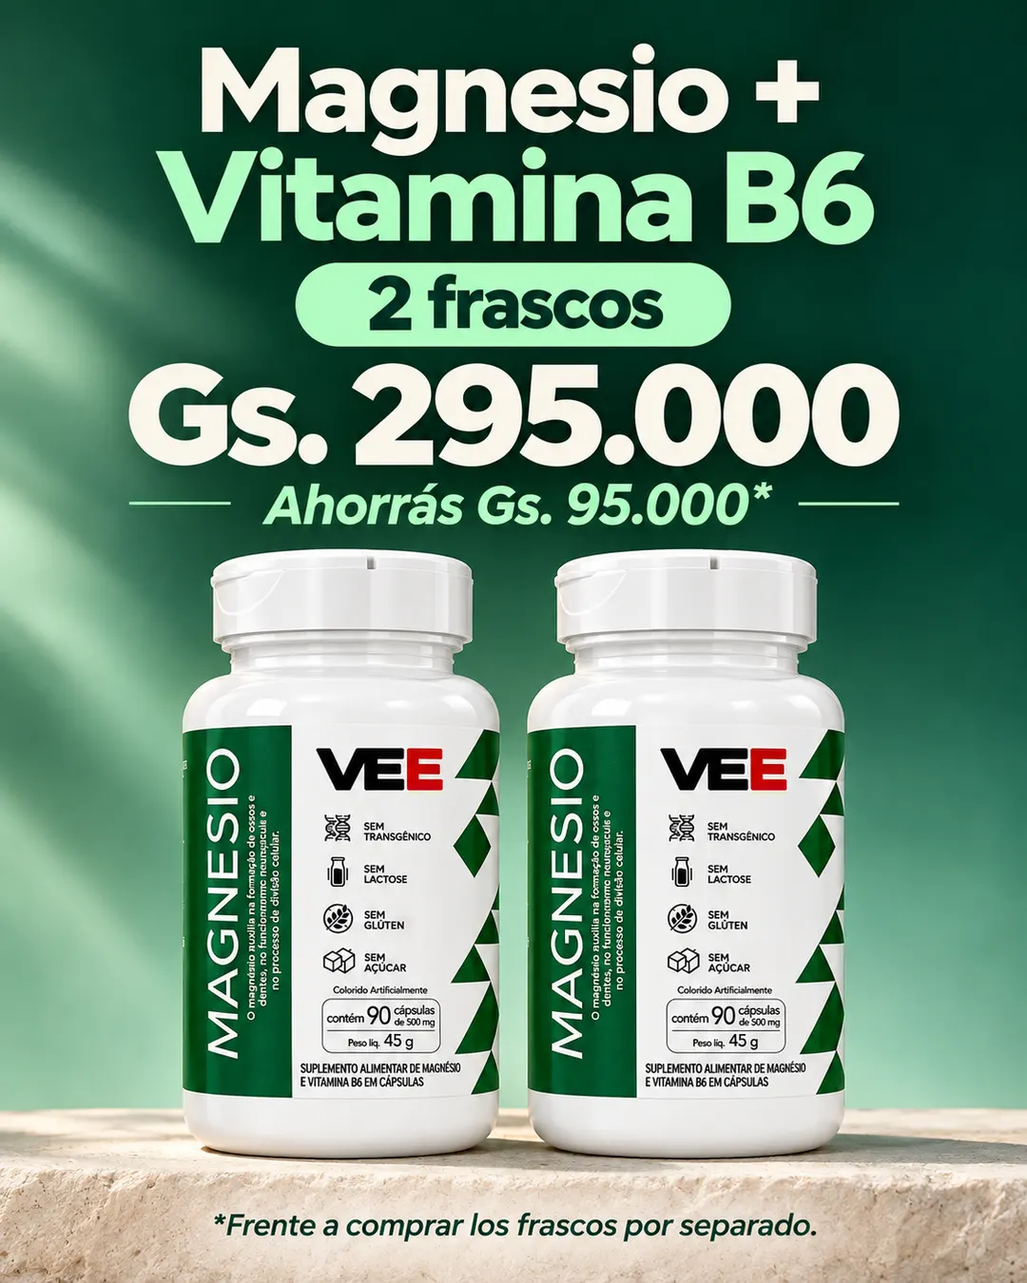
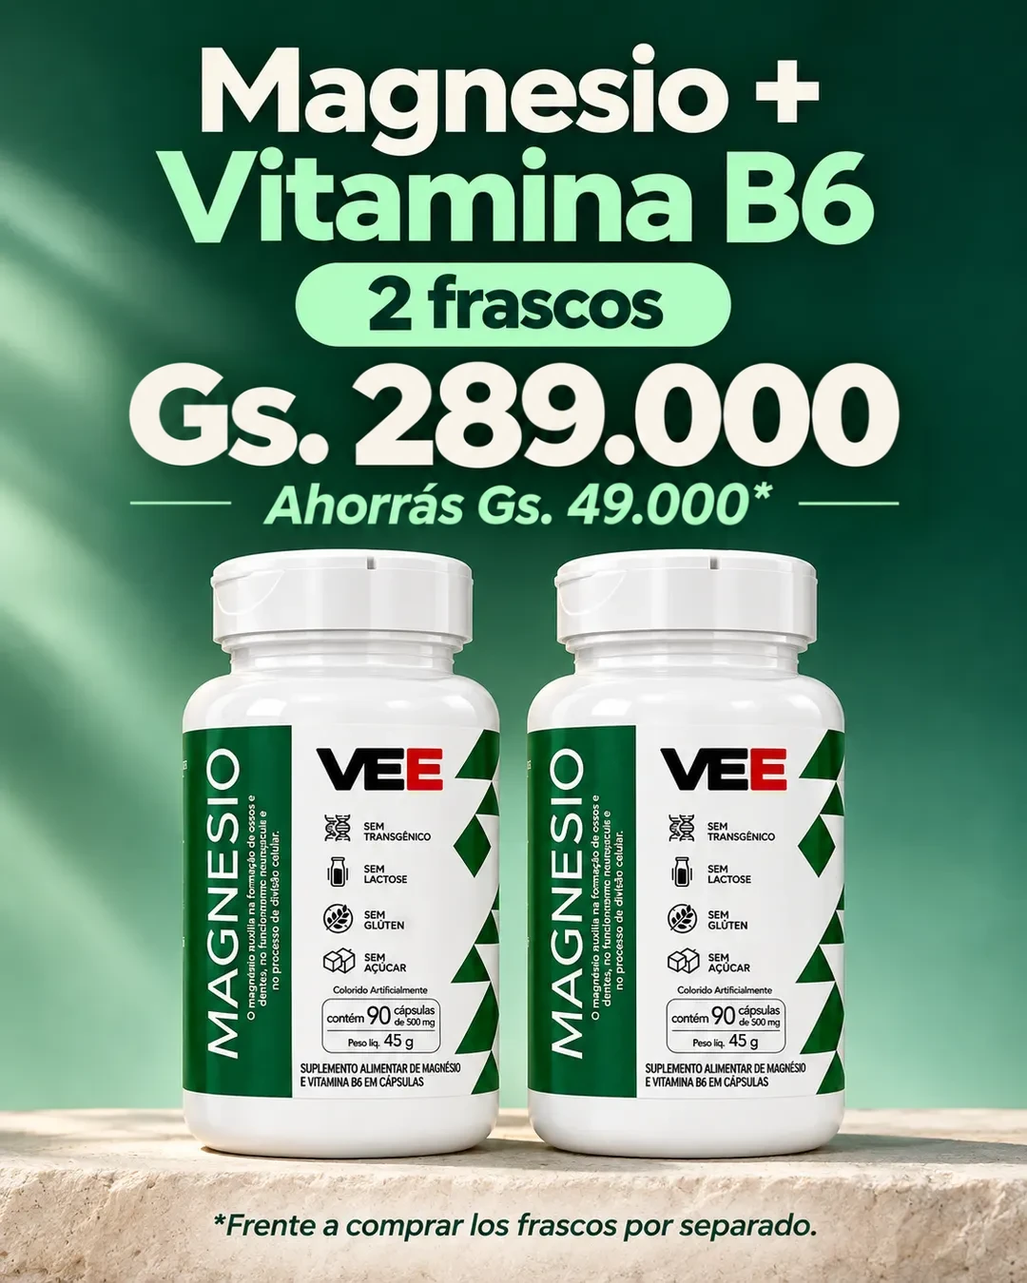
Actualiza precios y ficha de Magnesio VEE

diff --git a/index.html b/index.html
@@ -65,7 +65,11 @@ section{padding:40px 0}
 .gallery__badges{position:absolute;top:12px;left:12px;display:flex;flex-direction:column;gap:6px}
 .badge{display:inline-block;font-size:11px;font-weight:700;padding:4px 10px;border-radius:999px;color:#fff;background:var(--brand)}
 .badge.dark{background:#2e2a39}
-.gallery__thumbs{display:grid;grid-template-columns:repeat(6,1fr);gap:8px;margin-top:10px}
+.gallery__nav{display:flex;align-items:center;justify-content:center;gap:clamp(6px,2vw,12px);margin-top:10px}
+.gallery__arrow{display:grid;place-items:center;flex:none;width:40px;height:40px;border:1px solid var(--brand);border-radius:50%;background:#eef7f1;color:var(--brand);font:inherit;font-size:25px;line-height:1;cursor:pointer}
+.gallery__arrow:hover{background:var(--brand);color:#fff}
+.gallery__thumbs{display:flex;gap:5px;min-width:0}
+.gallery__thumbs button{width:54px;min-width:0}
 .gallery__thumbs button{border:2px solid transparent;border-radius:8px;overflow:hidden;padding:0;background:none;cursor:pointer}
 .gallery__thumbs button[aria-current="true"]{border-color:var(--brand)}
 .gallery__thumbs img,.gallery__thumbs .ph{aspect-ratio:var(--gallery-ratio);object-fit:cover;font-size:0}
@@ -76,15 +80,6 @@ section{padding:40px 0}
 .title{font-size:clamp(24px,5.5vw,32px);font-weight:700;line-height:1.2}
 .proof{display:flex;align-items:center;gap:8px;margin:8px 0 14px;font-size:14px;color:var(--muted)}
 .stars{color:var(--star);letter-spacing:1px}
-.chips{display:grid;gap:8px;margin-bottom:16px}
-.chip{display:flex;gap:12px;align-items:center;background:#eef7f1;border-radius:10px;padding:10px 12px}
-.chip__ico{font-size:22px;width:32px;text-align:center}
-.chip b{display:block;font-size:14px}
-.chip span{font-size:13px;color:var(--muted)}
-.price{display:flex;align-items:center;flex-wrap:wrap;gap:10px;margin-bottom:10px}
-.price__now{font-size:28px;font-weight:800;color:var(--brand)}
-.price__old{font-size:17px;color:#9a97a3;text-decoration:line-through}
-.price__save{background:#2e2a39;color:#fff;font-size:12px;font-weight:700;padding:4px 10px;border-radius:999px}
 .countdown{display:flex;align-items:center;justify-content:space-between;gap:10px;background:#2e2a39;color:#fff;border-radius:10px;padding:10px 14px;margin-bottom:16px;font-size:13px;font-weight:600}
 .countdown__time{font-variant-numeric:tabular-nums;font-size:20px;font-weight:800;letter-spacing:1px}
 
@@ -129,7 +124,25 @@ section{padding:40px 0}
 .hp{position:absolute;left:-9999px;width:1px;height:1px;overflow:hidden}
 
 /* ---------- Checkout (ventana) ---------- */
-.buy{border:1px solid var(--line);border-radius:14px;padding:16px;background:#fff}
+.buy{border:1px solid var(--line);border-radius:14px;padding:clamp(10px,2.5vw,16px);background:#fff}
+.buy__label{color:var(--brand);font-size:13px;font-weight:800;letter-spacing:.06em;margin:0 0 14px}
+.buy .offers{grid-template-columns:repeat(3,minmax(0,1fr));gap:7px}
+.buy .offer{flex-direction:column;justify-content:center;gap:2px;text-align:center;min-height:94px;padding:12px 3px}
+.buy .offer input{position:absolute;width:1px;height:1px;opacity:0}
+.buy .offer:focus-within{outline:2px solid var(--brand);outline-offset:2px}
+.buy .offer__title{font-size:clamp(11px,2.8vw,13px)}
+.buy .offer__prices b{font-size:clamp(12px,3.4vw,15px);white-space:nowrap;text-align:center;color:var(--brand)}
+.buy .offer__sub{font-size:clamp(9px,2.5vw,11px)}
+.buy .offer__tag{top:-9px;right:auto;left:50%;transform:translateX(-50%);padding:2px 5px;font-size:clamp(7px,1.9vw,9px);white-space:nowrap}
+.buy .offer[data-checked="true"]::after{content:"✓";position:absolute;top:4px;right:4px;display:grid;place-items:center;border-radius:50%;width:15px;height:15px;background:var(--brand);color:white;font-size:10px}
+.buy .offer__exit{font-size:9px}
+.buy .cta{display:flex;align-items:center;justify-content:space-between;gap:12px;text-align:left;padding:12px 16px;animation:none}
+.buy .cta__main{display:block;font-size:clamp(17px,4.5vw,20px)}
+.buy .cta__sub{display:block;font-size:13px;font-weight:600;text-transform:none;letter-spacing:normal}
+.buy .cta__arrow{display:grid;place-items:center;width:36px;height:36px;flex:none;border-radius:50%;background:#126034;font-size:20px}
+.buy__wa{display:flex;align-items:center;justify-content:center;gap:8px;border:1px solid var(--brand);border-radius:999px;margin-top:10px;padding:11px 12px;color:var(--brand);font-weight:700;text-decoration:none}
+.buy__wa:hover{background:#eef7f1}
+.buy__wa svg{width:19px;height:19px}
 .buy .cta{margin-top:14px}
 .checkout{border:0;padding:0;margin:auto;width:min(520px,100%);max-height:100dvh;border-radius:16px;background:#fff;color:var(--text);box-shadow:0 20px 60px rgba(0,0,0,.25)}
 .checkout::backdrop{background:rgba(20,16,14,.6)}
@@ -215,19 +228,10 @@ section{padding:40px 0}
 .banner img{width:100%;height:auto}
 .banner__note{padding:8px 16px;text-align:center;color:var(--ok);font-weight:700}
 
-/* ---------- Dolores ---------- */
-.pain__kicker{display:block;text-align:center;font-size:12px;font-weight:800;letter-spacing:1.5px;color:var(--brand);margin-bottom:6px}
-.pain h2{font-weight:900;font-size:clamp(20px,5vw,28px)}
-.pain__list{display:grid;gap:12px;margin-top:22px;max-width:640px;margin-inline:auto}
-@media (min-width:768px){.pain__list{grid-template-columns:repeat(3,1fr);max-width:none}}
-.pain__item{display:flex;gap:12px;align-items:center;background:#eef7f1;border-left:4px solid var(--brand);border-radius:10px;padding:16px}
-.pain__item i{font-style:normal;font-size:26px}
-.pain__item p{font-weight:600;font-size:14px}
-
 /* ---------- Pestañas ---------- */
-.tabs__bar{display:flex;gap:8px;overflow-x:auto;margin:20px 0 18px;padding-bottom:4px;justify-content:flex-start}
-@media (min-width:768px){.tabs__bar{justify-content:center}}
-.tabs__bar button{flex:none;font:inherit;font-size:13px;font-weight:600;border:1px solid var(--brand-soft);background:#fff;color:var(--text);padding:9px 14px;border-radius:999px;cursor:pointer}
+.product-info{padding-top:24px}
+.tabs__bar{display:flex;gap:clamp(4px,1.5vw,8px);margin:20px 0 18px;justify-content:center}
+.tabs__bar button{flex:0 1 auto;min-width:0;font:inherit;font-size:clamp(11px,3.15vw,13px);line-height:1.2;font-weight:600;border:1px solid var(--brand-soft);background:#fff;color:var(--text);padding:9px clamp(6px,2vw,14px);min-height:40px;border-radius:999px;cursor:pointer}
 .tabs__bar button[aria-selected="true"]{background:var(--brand);border-color:var(--brand);color:#fff}
 .tabs__panel{max-width:720px;margin:0 auto;text-align:center}
 .tabs__panel h3{font-size:18px;margin-bottom:14px}
@@ -326,7 +330,7 @@ if(!f._fbq)f._fbq=n;n.push=n;n.loaded=!0;n.version='2.0';n.queue=[];t=b.createEl
 t.src=v;s=b.getElementsByTagName(e)[0];s.parentNode.insertBefore(t,s)}(window,document,'script','https://connect.facebook.net/en_US/fbevents.js');
 fbq('init', '2141006803281667');
 fbq('track', 'PageView');
-fbq('track', 'ViewContent', { content_name: 'Magnesio VEE', content_type: 'product', value: 195000, currency: 'PYG' });
+fbq('track', 'ViewContent', { content_name: 'Magnesio VEE', content_type: 'product', value: 169000, currency: 'PYG' });
 </script>
 <noscript><img height="1" width="1" style="display:none" alt="" src="https://www.facebook.com/tr?id=2141006803281667&ev=PageView&noscript=1"></noscript>
 </head>
@@ -342,29 +346,30 @@ fbq('track', 'ViewContent', { content_name: 'Magnesio VEE', content_type: 'produ
       <div class="gallery__main" id="galleryMain">
         <div class="gallery__badges" id="badges"></div>
       </div>
-      <div class="gallery__thumbs" id="thumbs"></div>
+      <div class="gallery__nav" role="group" aria-label="Fotos del producto">
+        <button class="gallery__arrow" id="galleryPrev" type="button" aria-label="Foto anterior">‹</button>
+        <div class="gallery__thumbs" id="thumbs"></div>
+        <button class="gallery__arrow" id="galleryNext" type="button" aria-label="Foto siguiente">›</button>
+      </div>
     </div>
 
     <div>
       <div class="viewers" id="viewers"><span class="dot"></span><span><b id="viewersN">12</b> personas viendo este producto</span></div>
       <h1 class="title" id="pTitle"></h1>
       <div class="proof"><span class="stars" id="pStars">★★★★★</span><span id="pProof"></span></div>
-      <div class="chips" id="chips"></div>
-
-      <div class="price">
-        <span class="price__now" id="priceNow"></span>
-        <span class="price__old" id="priceOld"></span>
-        <span class="price__save" id="priceSave"></span>
-      </div>
-
       <div class="countdown" id="countdown">
         <span>⏳ LA OFERTA TERMINA EN</span>
         <span class="countdown__time" id="cdTime">--:--</span>
       </div>
 
       <div class="buy" id="buyBox">
-        <div class="offers" id="offers" role="radiogroup" aria-label="Elegí tu oferta"></div>
-        <button class="cta" id="buyBtn" type="button">Comprar ahora – pago al recibir</button>
+        <h2 class="buy__label" id="comboHeading">ELEGÍ TU COMBO</h2>
+        <div class="offers" id="offers" role="radiogroup" aria-labelledby="comboHeading"></div>
+        <button class="cta" id="buyBtn" type="button">
+          <span><span class="cta__main">Comprar ahora</span><span class="cta__sub" id="buyTotal"></span></span>
+          <span class="cta__arrow" aria-hidden="true">→</span>
+        </button>
+        <a class="buy__wa" id="buyWhatsApp" href="https://wa.me/595972738779" target="_blank" rel="noopener"><svg viewBox="0 0 32 32" aria-hidden="true"><path fill="currentColor" d="M16 3C8.8 3 3 8.7 3 15.8c0 2.5.7 4.9 2 7L3 29l6.4-2a13.1 13.1 0 0 0 6.6 1.8c7.2 0 13-5.7 13-12.8S23.2 3 16 3zm0 23.4c-2.1 0-4.1-.6-5.9-1.6l-.4-.3-3.8 1.2 1.2-3.7-.3-.4a10.4 10.4 0 0 1-1.7-5.8C5.1 10 10 5.3 16 5.3S26.9 10 26.9 15.8 22 26.4 16 26.4zm6-7.9c-.3-.2-1.9-.9-2.2-1-.3-.1-.5-.2-.7.2l-1 1.2c-.2.2-.4.2-.7.1-.3-.2-1.4-.5-2.6-1.6-1-.9-1.6-1.9-1.8-2.2-.2-.3 0-.5.1-.7l.5-.6.3-.5c.1-.2 0-.4 0-.6l-1-2.4c-.3-.6-.5-.5-.7-.5h-.6c-.2 0-.6.1-.9.4-.3.3-1.2 1.1-1.2 2.7s1.2 3.2 1.4 3.4c.2.2 2.4 3.6 5.8 5 .8.4 1.4.6 1.9.7.8.3 1.6.2 2.2.1.7-.1 1.9-.8 2.2-1.5.3-.7.3-1.4.2-1.5-.1-.2-.3-.3-.6-.4z"/></svg><span>Pedir por WhatsApp</span></a>
         <div class="trust"><span>🚚 Envío gratis a todo el país</span><span>💵 Pagás al recibir</span><span>🔒 Compra segura</span></div>
       </div>
 
@@ -462,21 +467,12 @@ fbq('track', 'ViewContent', { content_name: 'Magnesio VEE', content_type: 'produ
   <button class="ghost" type="button" id="exitNo">No, gracias</button>
 </dialog>
 
-<div class="divider"></div>
-<!-- 3. Banner de imágenes #1 -->
-<div class="banner">
-  <button type="button" data-banner-order>
-    <img src="img/mvee-dos-frascos-1080.webp" srcset="img/mvee-dos-frascos-560.webp 560w, img/mvee-dos-frascos-1080.webp 1080w" sizes="(min-width: 560px) 560px, 100vw" width="1080" height="1350" alt="Magnesio + Vitamina B6 VEE: 2 frascos por Gs. 295.000, ahorrás Gs. 95.000 frente a comprarlos por separado. Abrir pedido." loading="lazy" decoding="async">
-  </button>
-</div>
-<div class="divider"></div>
-
-<!-- 4. Señales de alerta (dolores) -->
-<section class="pain">
+<!-- Información del producto -->
+<section class="product-info" aria-labelledby="tabsTitle">
   <div class="wrap">
-    <span class="pain__kicker" id="painKicker"></span>
-    <h2 id="painTitle"></h2>
-    <div class="pain__list" id="painList"></div>
+    <h2 id="tabsTitle"></h2>
+    <div class="tabs__bar" id="tabsBar" role="tablist" aria-labelledby="tabsTitle"></div>
+    <div class="tabs__panel" id="tabsPanel" role="tabpanel"></div>
   </div>
 </section>
 
@@ -508,15 +504,6 @@ fbq('track', 'ViewContent', { content_name: 'Magnesio VEE', content_type: 'produ
   </button>
 </div>
 
-<!-- 6. Pestañas de contenido -->
-<section>
-  <div class="wrap">
-    <h2 id="tabsTitle"></h2>
-    <div class="tabs__bar" id="tabsBar" role="tablist"></div>
-    <div class="tabs__panel" id="tabsPanel" role="tabpanel"></div>
-  </div>
-</section>
-
 <!-- 7. Tabla comparativa -->
 <section class="on-brand">
   <div class="wrap">
@@ -544,7 +531,7 @@ fbq('track', 'ViewContent', { content_name: 'Magnesio VEE', content_type: 'produ
 <div class="banner">
   <p class="banner__note" id="bannerPriceNote" hidden>La imagen muestra los precios de lista. Tu descuento se aplica en el pedido.</p>
   <button type="button" id="comboBanner" data-banner-order>
-    <img src="img/mvee-tres-frascos-1080.webp" srcset="img/mvee-tres-frascos-560.webp 560w, img/mvee-tres-frascos-1080.webp 1080w" sizes="(min-width: 560px) 560px, 100vw" width="1080" height="1350" alt="Magnesio + Vitamina B6 VEE: 3 frascos por Gs. 395.000, ahorrás Gs. 190.000 frente a comprarlos por separado. Abrir pedido." loading="lazy" decoding="async">
+    <img src="img/mvee-tres-frascos-1080.webp" srcset="img/mvee-tres-frascos-560.webp 560w, img/mvee-tres-frascos-1080.webp 1080w" sizes="(min-width: 560px) 560px, 100vw" width="1080" height="1350" alt="Magnesio + Vitamina B6 VEE: 3 frascos por Gs. 399.000, ahorrás Gs. 108.000 frente a comprarlos por separado. Abrir pedido." loading="lazy" decoding="async">
   </button>
 </div>
 <div class="divider on-brand"></div>
@@ -586,22 +573,19 @@ const CONFIG = {
   currency: { prefix: "Gs. ", locale: "es-PY" },
 
   product: {
-    name: "Magnesio + Vitamina B6 VEE – Bisglicinato de magnesio, 90 cápsulas",
+    name: "Magnesio + Vitamina B6 VEE – Bisglicinato de magnesio",
     proof: "Suplemento alimentario en cápsulas · 90 cápsulas · 30 días",
     badges: [],   // las fotos ya traen texto
-    images: ["img/mvee-un-frasco-1080.webp", "img/producto-frente.webp", "img/mvee-composicion-1080.webp", "img/producto-tabla.webp"],
-    chips: [
-      { icon: "⚡", title: "350 mg de magnesio por porción", text: "Con 1,7 mg de vitamina B6 en la misma toma" },
-      { icon: "🌿", title: "Bisglicinato de magnesio", text: "Es la fuente de magnesio que declara la etiqueta" },
-      { icon: "💊", title: "90 cápsulas", text: "3 al día: un frasco dura 30 días" }
-    ]
+    coverAlt: "Magnesio + Vitamina B6 VEE. Por porción de 3 cápsulas: 350 mg de magnesio y 1,7 mg de vitamina B6. 90 cápsulas para 30 días. 1 frasco por Gs. 169.000.",
+    coverThumbnail: "img/mvee-un-frasco-560.webp",
+    images: ["img/mvee-un-frasco-1080.webp", "img/producto-frente.webp", "img/mvee-composicion-1080.webp", "img/producto-tabla.webp"]
   },
 
   /* Precios del catálogo. compare = el mismo frasco comprado suelto (ahorro real del combo). */
   offers: [
-    { id: "1u", title: "1 frasco · 90 cápsulas",   sub: "Rinde 30 días", img: "img/combo-1.webp", qty: 1, price: 195000, default: true },
-    { id: "2u", title: "2 frascos · 180 cápsulas", sub: "Rinde 60 días", img: "img/combo-2.webp", qty: 2, price: 295000, compare: 390000, tag: "⭐ EL MÁS ELEGIDO" },
-    { id: "3u", title: "3 frascos · 270 cápsulas", sub: "Rinde 90 días", img: "img/combo-3.webp", qty: 3, price: 395000, compare: 585000, tag: "🔥 MEJOR PRECIO" }
+    { id: "1u", title: "1 frasco · 90 cápsulas",   sub: "Rinde 30 días", img: "img/combo-1.webp", qty: 1, price: 169000, default: true },
+    { id: "2u", title: "2 frascos · 180 cápsulas", sub: "Rinde 60 días", img: "img/combo-2.webp", qty: 2, price: 289000, compare: 338000, tag: "MÁS ELEGIDO" },
+    { id: "3u", title: "3 frascos · 270 cápsulas", sub: "Rinde 90 días", img: "img/combo-3.webp", qty: 3, price: 399000, compare: 507000, tag: "MÁXIMO AHORRO" }
   ],
 
   countdownMinutes: 0,   // sin contador: no hay una oferta que venza
@@ -637,28 +621,18 @@ const CONFIG = {
   tickerTop: ["🚚 ENVÍO GRATIS A TODO EL PAÍS","💵 PAGÁS AL RECIBIR","📦 COMBOS DESDE 2 FRASCOS","💬 ATENCIÓN POR WHATSAPP"],
   tickerBottom: ["⚡ 350 MG DE MAGNESIO POR PORCIÓN","💊 VITAMINA B6","🌿 BISGLICINATO DE MAGNESIO","🚫 SIN AZÚCAR","🌾 SIN GLUTEN","🥛 SIN LACTOSA","🧬 SIN TRANSGÉNICOS"],
 
-  pain: {
-    kicker: "🌿 MAGNESIO PARA TU DÍA A DÍA",
-    title: "¿Querés sumar magnesio a tu rutina?",
-    items: [
-      { icon: "🏃", text: "Para acompañar tu día activo: trabajo, casa y movimiento" },
-      { icon: "🥗", text: "Como complemento de una alimentación variada" },
-      { icon: "⏱", text: "Simple: 3 cápsulas al día y listo" }
-    ]
-  },
-
   tabs: {
     title: "🌿 ¿Qué trae el Magnesio + B6 VEE?",
     items: [
-      { label: "🧪 Composición", heading: "Lo que aporta una porción (3 cápsulas)",
-        list: ["350 mg de magnesio","1,7 mg de vitamina B6","Fuente de magnesio: bisglicinato de magnesio","Sin azúcar, sin gluten, sin lactosa y sin transgénicos"],
-        text: "Suplemento alimentario en cápsulas. Contiene gelatina y colorantes artificiales." },
+      { label: "💊 Cómo se toma", heading: "Cómo tomar Magnesio + B6 VEE",
+        list: ["💊 3 cápsulas al día","📦 90 cápsulas por frasco","📅 Un frasco dura 30 días"],
+        text: "Para mayores de 19 años. No deben consumirlo embarazadas, mujeres en lactancia ni niños. Si tomás medicación, consultá a tu médico." },
       { label: "⚡ Para qué sirve", heading: "Qué hace el magnesio en el cuerpo",
         list: ["Contribuye al funcionamiento neuromuscular","Contribuye a la formación de huesos y dientes","Contribuye al proceso de división celular"],
         text: "Son las funciones del magnesio que indica el envase. Complementa una alimentación equilibrada." },
-      { label: "💊 Cómo se toma", heading: "Simple de sumar a tu rutina",
-        list: ["📦 90 cápsulas por frasco","💊 3 cápsulas al día","📅 Un frasco dura 30 días","🚚 Te llega a tu casa y pagás al recibir"],
-        text: "Para mayores de 19 años. No deben consumirlo embarazadas, mujeres en lactancia ni niños. Si tomás medicación, consultá a tu médico." }
+      { label: "🧪 Composición", heading: "Lo que aporta una porción (3 cápsulas)",
+        list: ["350 mg de magnesio","1,7 mg de vitamina B6","Fuente de magnesio: bisglicinato de magnesio","Sin azúcar, sin gluten, sin lactosa y sin transgénicos"],
+        text: "Suplemento alimentario en cápsulas. Contiene gelatina y colorantes artificiales." }
     ]
   },
 
@@ -713,18 +687,21 @@ document.title = P.name;
 $("pTitle").textContent = P.name;
 $("pProof").textContent = P.proof;
 $("badges").innerHTML = P.badges.map(b => `<span class="badge ${b.dark ? "dark" : ""}">${esc(b.text)}</span>`).join("");
-$("chips").innerHTML = P.chips.map(c => `<div class="chip"><span class="chip__ico">${c.icon}</span><div><b>${esc(c.title)}</b><span>${esc(c.text)}</span></div></div>`).join("");
 
 let current = 0;
 function showImage(i) {
   current = i;
   const main = $("galleryMain");
   main.querySelectorAll("img,.ph").forEach(n => n.remove());
-  main.insertAdjacentHTML("afterbegin", img(P.images[i], P.name, `Foto ${i + 1} · 1080×1350`).replace('loading="lazy"', i === 0 ? 'fetchpriority="high"' : 'loading="lazy"'));
+  main.insertAdjacentHTML("afterbegin", img(P.images[i], i === 0 ? P.coverAlt : P.name, `Foto ${i + 1} · 1080×1350`).replace('loading="lazy"', i === 0 ? 'fetchpriority="high"' : 'loading="lazy"'));
   [...$("thumbs").children].forEach((b, j) => b.setAttribute("aria-current", j === i));
 }
-$("thumbs").style.gridTemplateColumns = `repeat(${P.images.length}, 1fr)`;
-$("thumbs").innerHTML = P.images.map((s, i) => `<button type="button" aria-label="Ver foto ${i + 1}">${img(s, "", "")}</button>`).join("");
+function stepImage(step) {
+  showImage((current + step + P.images.length) % P.images.length);
+}
+$("galleryPrev").addEventListener("click", () => stepImage(-1));
+$("galleryNext").addEventListener("click", () => stepImage(1));
+$("thumbs").innerHTML = P.images.map((s, i) => `<button type="button" aria-label="Ver foto ${i + 1}">${img(i === 0 ? P.coverThumbnail : s, "", "")}</button>`).join("");
 [...$("thumbs").children].forEach((b, i) => b.addEventListener("click", () => showImage(i)));
 showImage(0);
 
@@ -734,7 +711,7 @@ $("galleryMain").addEventListener("touchstart", e => x0 = e.touches[0].clientX, 
 $("galleryMain").addEventListener("touchend", e => {
   if (x0 === null) return;
   const dx = e.changedTouches[0].clientX - x0; x0 = null;
-  if (Math.abs(dx) > 40) showImage((current + (dx < 0 ? 1 : -1) + P.images.length) % P.images.length);
+  if (Math.abs(dx) > 40) stepImage(dx < 0 ? 1 : -1);
 });
 
 if (CONFIG.viewers) {
@@ -752,25 +729,32 @@ const finalPrice = o => o.price - exitOff(o);
 // Las mismas ofertas se muestran en la ficha y dentro del checkout.
 function renderOffers() {
   ["offers", "offersModal"].forEach(box => {
+    const compact = box === "offers";
     $(box).innerHTML = CONFIG.offers.map(o => `
     <label class="offer" data-checked="${o.id === selected.id}">
       ${o.tag ? `<span class="offer__tag">${esc(o.tag)}</span>` : ""}
       <input type="radio" name="${box}" value="${o.id}" ${o.id === selected.id ? "checked" : ""}>
-      ${o.img ? `<img class="offer__img" src="${esc(o.img)}" alt="" loading="lazy">` : ""}
+      ${o.img && !compact ? `<img class="offer__img" src="${esc(o.img)}" alt="" loading="lazy">` : ""}
+      ${compact ? `
+      <div class="offer__title">${o.qty} ${o.qty === 1 ? "frasco" : "frascos"}</div>
+      <div class="offer__prices"><b>${money(finalPrice(o))}</b></div>
+      <div class="offer__sub">${money(Math.round(finalPrice(o) / o.qty))} c/u</div>
+      ` : `
       <div class="offer__body"><div class="offer__title">${esc(o.title)}</div>${o.sub ? `<div class="offer__sub">${esc(o.sub)}</div>` : ""}${pct(o) ? `<span class="offer__save">Ahorrá ${pct(o)}%</span>` : ""}${exitOff(o) ? `<span class="offer__exit">🎁 Descuento especial – ${money(exitOff(o))}</span>` : ""}</div>
-      <div class="offer__prices"><b>${money(finalPrice(o))}</b>${o.compare || exitOff(o) ? `<s>${money(o.compare || o.price)}</s>` : ""}</div>
+      <div class="offer__prices"><b>${money(finalPrice(o))}</b>${o.compare || exitOff(o) ? `<s>${money(o.compare || o.price)}</s>` : ""}</div>`}
     </label>`).join("");
     $(box).querySelectorAll("input").forEach(inp => inp.addEventListener("change", () => {
-      selected = CONFIG.offers.find(o => o.id === inp.value); renderOffers(); updatePrice();
+      selected = CONFIG.offers.find(o => o.id === inp.value);
+      renderOffers();
+      $(box).querySelector("input:checked").focus({ preventScroll: true });
+      updatePrice();
     }));
   });
 }
 function updatePrice() {
-  $("priceNow").textContent = money(finalPrice(selected));
-  $("priceOld").textContent = selected.compare || exitOff(selected) ? money(selected.compare || selected.price) : "";
-  $("priceSave").textContent = pct(selected) ? `Ahorrá ${pct(selected)}%` : "";
-  $("priceSave").hidden = !pct(selected);
-  $("buyBtn").textContent = `Comprar ahora – ${money(finalPrice(selected))}`;
+  $("buyTotal").textContent = `${money(finalPrice(selected))} · Pagás al recibir`;
+  const message = `Hola, quiero pedir Magnesio + Vitamina B6 VEE. Combo: ${selected.title} por ${money(finalPrice(selected))}.`;
+  $("buyWhatsApp").href = `https://wa.me/${CONFIG.order.whatsapp}?text=${encodeURIComponent(message)}`;
   const subtotal = selected.compare || selected.price;
   $("sumImg").src = selected.img || P.images[0];
   $("sumOffer").textContent = selected.title;
@@ -1097,10 +1081,6 @@ document.querySelectorAll("[data-banner-order]").forEach(button => {
   button.addEventListener("click", openCheckout);
 });
 
-$("painKicker").textContent = CONFIG.pain.kicker;
-$("painTitle").textContent = CONFIG.pain.title;
-$("painList").innerHTML = CONFIG.pain.items.map(p => `<div class="pain__item"><i>${p.icon}</i><p>${esc(p.text)}</p></div>`).join("");
-
 $("tabsTitle").textContent = CONFIG.tabs.title;
 function showTab(i) {
   const t = CONFIG.tabs.items[i];
@@ -1156,7 +1136,11 @@ addEventListener("scroll", () => {
 }, { passive: true });
 $("toTop").addEventListener("click", () => scrollTo({ top: 0, behavior: "smooth" }));
 $("waFloat").href = `https://wa.me/${CONFIG.order.whatsapp}?text=${encodeURIComponent("Hola, estoy viendo el Magnesio + B6 VEE y tengo una consulta sobre los combos y el envío")}`;
-$("waFloat").addEventListener("click", () => { if (window.fbq) fbq("track", "Contact", { content_name: "Magnesio VEE" }); });
+[$("waFloat"), $("buyWhatsApp")].forEach(link => {
+  link.addEventListener("click", () => {
+    if (window.fbq) fbq("track", "Contact", { content_name: "Magnesio VEE" });
+  });
+});
 // En pantallas angostas, la placa de combos ocupa todo el ancho.
 new IntersectionObserver(([entry]) => {
   $("waFloat").classList.toggle("over-offer", entry.isIntersecting);

diff --git a/supabase/functions/create-magnesio-vee-order/index.ts b/supabase/functions/create-magnesio-vee-order/index.ts
@@ -6,7 +6,7 @@
 const PRODUCT_NAME = "MAGNESIO VEE";
 const ORIGIN = "landing_magnesio_vee";
 // Precio TOTAL por combo.
-const BUNDLES: Record<number, number> = { 1: 195000, 2: 295000, 3: 395000 };
+const BUNDLES: Record<number, number> = { 1: 169000, 2: 289000, 3: 399000 };
 const DEPARTMENTS = ["Asunción", "Central"];
 // Descuento de la ventana "antes de irte" de la landing. El monto lo fija el servidor:
 // el navegador solo avisa que la persona lo aceptó (descuento: "salida").

diff --git a/README.md b/README.md
@@ -3,9 +3,9 @@
 Landing estática hecha con la misma plantilla que ZenVit/articumina: checkout en ventana, departamentos y ciudades de Paraguay, mapa opcional, combos, descuento "antes de irte", pago al recibir y botón de WhatsApp.
 
 ## Precios
-- 1 frasco: Gs. 195.000
-- 2 frascos: Gs. 295.000 (ahorro Gs. 95.000)
-- 3 frascos: Gs. 395.000 (ahorro Gs. 190.000)
+- 1 frasco: Gs. 169.000
+- 2 frascos: Gs. 289.000 (ahorro Gs. 49.000)
+- 3 frascos: Gs. 399.000 (ahorro Gs. 108.000)
 - Descuento "antes de irte": Gs. 10.000 (1 frasco) y Gs. 20.000 (combos), igual que Articumina.
 
 ## Pedidos
